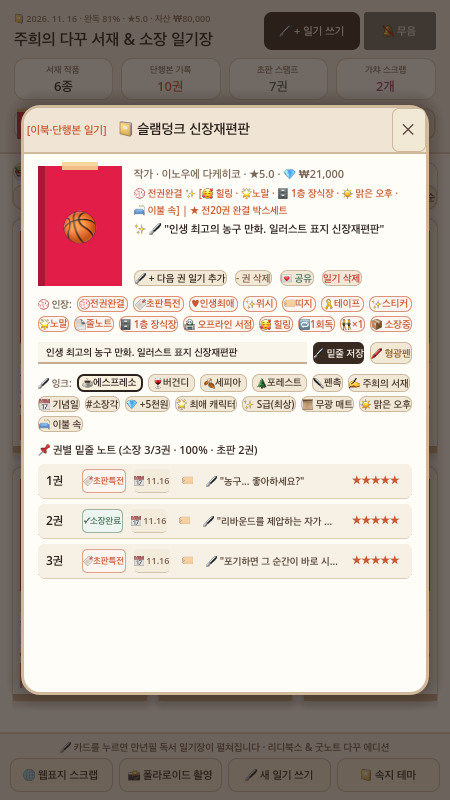
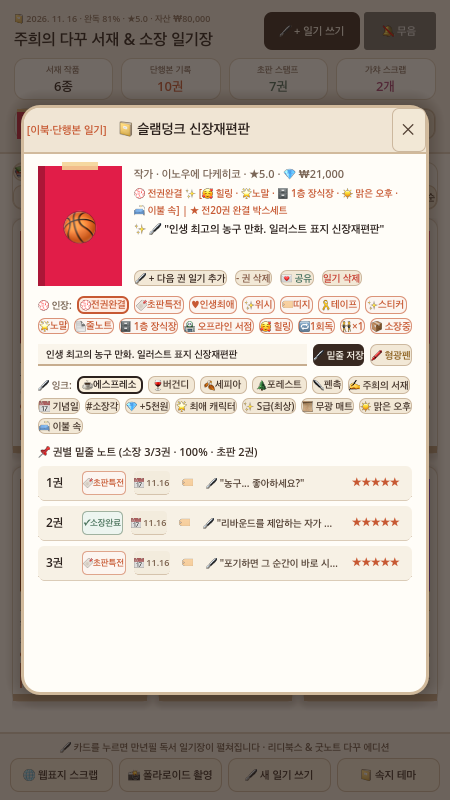
feat(game02): Sprint 56 active stamp highlight & highlighter ON/OFF button state

Changed region(s): [[0.0622, 0.3438, 0.9333, 0.7188], [0.7778, 0.5938, 0.9022, 0.6562], [0.7778, 0.6875, 0.9022, 0.7188]]

diff --git a/game02/index.html b/game02/index.html
@@ -326,13 +326,13 @@
                     <div class="mt-3 p-2.5 rounded-xl bg-[#faf5ed] border border-[#e6dccd] space-y-2">
                         <div class="flex items-center gap-1.5 flex-wrap">
                             <span class="text-[11px] font-bold text-[#786b63] mr-1">💮 인장 찍기:</span>
-                            <button onclick="applyDiaryStamp('전권완결')"
+                            <button data-stamp-btn="전권완결" onclick="applyDiaryStamp('전권완결')"
                                 class="px-2 py-0.5 rounded border border-[#c85a32]/50 bg-[#fff8f5] text-[#c85a32] text-[10px] font-bold hover:bg-[#c85a32] hover:text-white cursor-pointer">💮전권완결</button>
-                            <button onclick="applyDiaryStamp('초판특전')"
+                            <button data-stamp-btn="초판특전" onclick="applyDiaryStamp('초판특전')"
                                 class="px-2 py-0.5 rounded border border-[#c85a32]/50 bg-[#fff8f5] text-[#c85a32] text-[10px] font-bold hover:bg-[#c85a32] hover:text-white cursor-pointer">🔖초판특전</button>
-                            <button onclick="applyDiaryStamp('인생최애')"
+                            <button data-stamp-btn="인생최애" onclick="applyDiaryStamp('인생최애')"
                                 class="px-2 py-0.5 rounded border border-[#c85a32]/50 bg-[#fff8f5] text-[#c85a32] text-[10px] font-bold hover:bg-[#c85a32] hover:text-white cursor-pointer">♥인생최애</button>
-                            <button onclick="applyDiaryStamp('위시리스트')"
+                            <button data-stamp-btn="위시리스트" onclick="applyDiaryStamp('위시리스트')"
                                 class="px-2 py-0.5 rounded border border-[#c85a32]/50 bg-[#fff8f5] text-[#c85a32] text-[10px] font-bold hover:bg-[#c85a32] hover:text-white cursor-pointer">✨위시리스트</button>
                         </div>
                         <div class="flex items-center gap-1.5">
@@ -643,6 +643,7 @@
             const rereadBtn = document.getElementById('reread-cycle-btn');
             if (rereadBtn) rereadBtn.textContent = `🔁 ${item.reread_count || 1}회독`;
             document.getElementById('diary-stamp').textContent = `💮 ${item.stamp} ${sticker} [${item.reading_mood || '🥰 힐링'} · ${rTier} · ${loc}]`;
+            highlightActiveStampBtn(item.stamp);
             document.getElementById('journal-modal').classList.remove('hidden');
         }
 
@@ -818,11 +819,21 @@
             renderShelf();
         }
 
+        function highlightActiveStampBtn(stampName) {
+            document.querySelectorAll('[data-stamp-btn]').forEach(btn => {
+                const isActive = btn.getAttribute('data-stamp-btn') === stampName;
+                btn.classList.toggle('ring-2', isActive);
+                btn.classList.toggle('ring-[#c85a32]', isActive);
+                btn.classList.toggle('bg-[#ffe8df]', isActive);
+            });
+        }
+
         function applyDiaryStamp(stampName) {
             const item = ITEMS.find(x => x.id === activeId);
             if (!item) return;
             item.stamp = stampName;
             document.getElementById('diary-stamp').innerText = '💮 ' + item.stamp;
+            highlightActiveStampBtn(stampName);
             renderShelf();
         }
 

diff --git a/game02/SPRINT_LOG.md b/game02/SPRINT_LOG.md
@@ -5,6 +5,20 @@
 
 ---
 
+## 🚀 [Sprint 56] 활성 인장 스탬프 하이라이트 & 형광펜 버튼 ON/OFF 상태 시각화
+- **날짜/시각**: 2026-11-16 17:25 (자동 스프린트)
+- **참여 스쿼드**: 14인 애자일 스쿼드 전원 (다꾸러 3인, PO/기획 2인, UX/UI 2인, 개발 4인, QA 2인, CEO 1인)
+- **핵심 VOC 및 기획 확정**:
+  1. **다꾸러 VOC #1 ("모달 상단 `💮전권완결`, `🔖초판특전`, `♥인생최애`, `✨위시` 인장 버튼 중 현재 찍혀 있는 도장도 잉크 버튼처럼 2px 테두리로 강조되면 좋겠어요!")**: `detail_modal.gd`에 `_highlight_active_stamp_btn()`을 추가하고 `open()`·`apply_stamp()`에 연동해 현재 `status_tag`와 일치하는 인장 버튼에 2px 스탬프 레드 테두리와 블러시 하이라이트 배경을 적용.
+  2. **다꾸러 VOC #2 ("`🖍 형광펜` 버튼을 눌렀을 때 형광펜이 켜진 상태인지 버튼 자체에서도 바로 보이면 좋겠어요")**: `_apply_ink_style()`에서 `HighlightBtn`을 `highlight_enabled` 상태에 따라 `"🖍 형광펜 ON"`(노란 하이라이트 + 2px 앰버 테두리) ↔ `"🖍 형광펜"`(크림 기본 스타일)으로 동적 전환.
+  3. **웹 목업 동기화**: `game02/index.html`에 `highlightActiveStampBtn()`을 추가해 `openJournalModal()` 및 `applyDiaryStamp()`에서 활성 인장 버튼 링 강조를 동기화.
+- **구현 및 검증 내역**:
+  - `detail_modal.gd`: `_highlight_active_stamp_btn()` 추가 및 `_apply_ink_style()` 내 `HighlightBtn` ON/OFF 스타일링 추가.
+  - `game02/index.html`: `data-stamp-btn` 속성 및 `highlightActiveStampBtn()` 동기화.
+  - `tests/test_main_integration.gd`: Sprint 56 통합 테스트(`Active Stamp Highlight & Highlighter Button ON/OFF Visual State verified`) 추가 후 3대 헤드리스 테스트 100% 통과 및 Metal 4.0 스크린샷(`godot_app_screen.png`, `godot_modal_screen.png`) 캡처 완료.
+
+---
+
 ## 🚀 [Sprint 55] 활성 만년필 잉크 스와치 하이라이트, 오늘의 밑줄 동적 툴팁 & 검색 빈 상태 가이드
 - **날짜/시각**: 2026-11-16 07:38 (자동 스프린트)
 - **참여 스쿼드**: 14인 애자일 스쿼드 전원 (다꾸러 3인, PO/기획 2인, UX/UI 2인, 개발 4인, QA 2인, CEO 1인)
